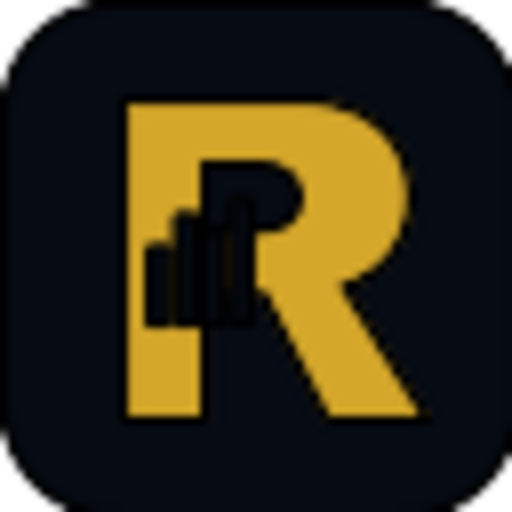
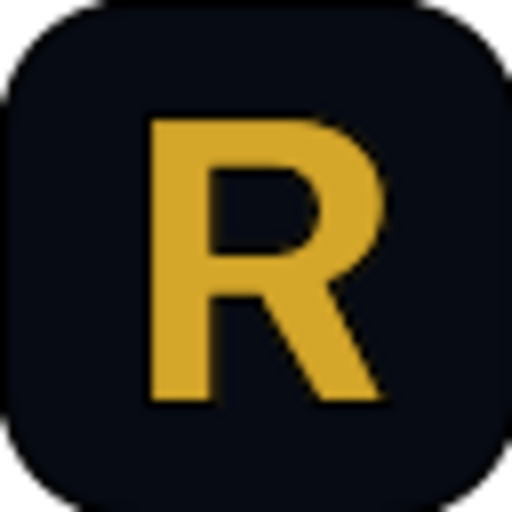
feat: premium isotipo, compact account menu, and ecosystem strip
Replace the agency-style mark with a minimal R that works alone, collapse the signed-in user into an avatar menu, and surface the full Reeskova ecosystem under the hero.

diff --git a/apps/web/src/features/auth/components/header-auth-actions.tsx b/apps/web/src/features/auth/components/header-auth-actions.tsx
@@ -1,7 +1,8 @@
 "use client";
 
+import { useEffect, useRef, useState } from "react";
 import { useTranslations } from "next-intl";
-import { LogOut, User } from "lucide-react";
+import { ChevronDown, LayoutDashboard, LogOut, User } from "lucide-react";
 import { Link } from "@/lib/i18n/routing";
 import { authClient } from "@/lib/auth-client";
 import { cn } from "@/lib/utils";
@@ -11,9 +12,32 @@ type Props = {
   variant?: "desktop" | "mobile";
 };
 
+function shortDisplayName(name: string | null | undefined, fallback: string) {
+  const trimmed = name?.trim();
+  if (!trimmed) return fallback;
+  const parts = trimmed.split(/\s+/).filter(Boolean);
+  if (parts.length === 1) return parts[0]!;
+  const first = parts[0]!;
+  const last = parts[parts.length - 1]!;
+  return `${first.charAt(0).toUpperCase()}. ${last}`;
+}
+
 export function HeaderAuthActions({ className, variant = "desktop" }: Props) {
   const t = useTranslations("nav");
   const { data: session, isPending } = authClient.useSession();
+  const [open, setOpen] = useState(false);
+  const menuRef = useRef<HTMLDivElement>(null);
+
+  useEffect(() => {
+    if (!open) return;
+    function onPointerDown(event: MouseEvent) {
+      if (!menuRef.current?.contains(event.target as Node)) {
+        setOpen(false);
+      }
+    }
+    document.addEventListener("mousedown", onPointerDown);
+    return () => document.removeEventListener("mousedown", onPointerDown);
+  }, [open]);
 
   if (isPending) {
     return (
@@ -24,52 +48,112 @@ export function HeaderAuthActions({ className, variant = "desktop" }: Props) {
           className,
         )}
       >
-        <div className="hidden h-12 w-28 animate-pulse rounded-2xl bg-white/10 sm:block" />
+        <div className="hidden size-10 animate-pulse rounded-full bg-white/10 sm:block" />
       </div>
     );
   }
 
   if (session?.user) {
+    const label = shortDisplayName(session.user.name, t("clientArea"));
+
+    if (variant === "mobile") {
+      return (
+        <div className={cn("flex w-full flex-col gap-2", className)}>
+          <Link
+            href="/dashboard"
+            className="flex h-12 items-center gap-3 rounded-2xl border border-white/10 px-4 text-sm text-[#AEB7C5]"
+          >
+            {session.user.image ? (
+              // eslint-disable-next-line @next/next/no-img-element
+              <img
+                src={session.user.image}
+                alt=""
+                className="size-7 rounded-full object-cover"
+              />
+            ) : (
+              <span className="flex size-7 items-center justify-center rounded-full bg-[#D4A62A]/15 text-[#D4A62A]">
+                <User className="size-3.5" />
+              </span>
+            )}
+            <span className="truncate font-medium text-white">{label}</span>
+          </Link>
+          <button
+            type="button"
+            onClick={() => authClient.signOut()}
+            className="flex h-12 items-center justify-center gap-2 rounded-2xl border border-white/10 px-3 text-sm text-[#AEB7C5]"
+          >
+            <LogOut className="size-4" />
+            {t("signOut")}
+          </button>
+        </div>
+      );
+    }
+
     return (
-      <div
-        className={cn(
-          "flex items-center gap-3",
-          variant === "mobile" && "w-full flex-col",
-          className,
-        )}
-      >
-        <Link
-          href="/dashboard"
-          className={cn(
-            "hidden h-12 max-w-[180px] items-center gap-2 truncate rounded-2xl border border-white/10 px-4 text-sm text-[#AEB7C5] transition-all duration-300 hover:bg-white/5 hover:text-white sm:inline-flex",
-            variant === "mobile" && "flex h-12 w-full max-w-none justify-center",
-          )}
+      <div className={cn("relative hidden sm:block", className)} ref={menuRef}>
+        <button
+          type="button"
+          onClick={() => setOpen((value) => !value)}
+          className="inline-flex h-10 items-center gap-2 rounded-full border border-white/10 py-1 pl-1 pr-2.5 text-sm text-[#AEB7C5] transition-colors hover:border-white/20 hover:text-white"
+          aria-expanded={open}
+          aria-haspopup="menu"
         >
           {session.user.image ? (
             // eslint-disable-next-line @next/next/no-img-element
             <img
               src={session.user.image}
               alt=""
-              className="size-6 rounded-full object-cover"
+              className="size-8 rounded-full object-cover"
             />
           ) : (
-            <User className="size-4 shrink-0" />
+            <span className="flex size-8 items-center justify-center rounded-full bg-[#D4A62A]/15 text-[#D4A62A]">
+              <User className="size-4" />
+            </span>
           )}
-          <span className="truncate">
-            {session.user.name || t("clientArea")}
-          </span>
-        </Link>
-        <button
-          type="button"
-          onClick={() => authClient.signOut()}
-          className={cn(
-            "hidden h-12 items-center justify-center gap-2 rounded-2xl border border-white/10 px-3 text-sm text-[#AEB7C5] transition-all duration-300 hover:bg-white/5 sm:inline-flex",
-            variant === "mobile" && "flex h-12 w-full",
-          )}
-        >
-          <LogOut className="size-4" />
-          {variant === "mobile" && t("signOut")}
+          <ChevronDown
+            className={cn(
+              "size-3.5 opacity-70 transition-transform",
+              open && "rotate-180",
+            )}
+          />
         </button>
+
+        {open ? (
+          <div
+            role="menu"
+            className="absolute right-0 top-full z-50 mt-2 min-w-[200px] rounded-2xl border border-white/10 bg-[#0E1422]/98 p-1.5 shadow-[0_20px_50px_rgba(0,0,0,.45)] backdrop-blur-xl"
+          >
+            <div className="border-b border-white/5 px-3 py-2.5">
+              <p className="truncate text-sm font-medium text-white">{label}</p>
+              {session.user.email ? (
+                <p className="mt-0.5 truncate text-xs text-[#AEB7C5]">
+                  {session.user.email}
+                </p>
+              ) : null}
+            </div>
+            <Link
+              href="/dashboard"
+              role="menuitem"
+              className="mt-1 flex items-center gap-2 rounded-xl px-3 py-2.5 text-sm text-[#AEB7C5] transition-colors hover:bg-white/5 hover:text-white"
+              onClick={() => setOpen(false)}
+            >
+              <LayoutDashboard className="size-4" />
+              {t("clientArea")}
+            </Link>
+            <button
+              type="button"
+              role="menuitem"
+              onClick={() => {
+                setOpen(false);
+                void authClient.signOut();
+              }}
+              className="flex w-full items-center gap-2 rounded-xl px-3 py-2.5 text-sm text-[#AEB7C5] transition-colors hover:bg-white/5 hover:text-white"
+            >
+              <LogOut className="size-4" />
+              {t("signOut")}
+            </button>
+          </div>
+        ) : null}
       </div>
     );
   }
@@ -85,8 +169,8 @@ export function HeaderAuthActions({ className, variant = "desktop" }: Props) {
       <Link
         href="/entrar"
         className={cn(
-          "hidden h-12 items-center justify-center rounded-2xl border border-white/10 px-4 text-sm font-medium text-[#AEB7C5] transition-colors duration-300 hover:border-white/20 hover:text-white sm:inline-flex",
-          variant === "mobile" && "flex h-12 w-full",
+          "hidden h-10 items-center justify-center rounded-full border border-white/10 px-4 text-sm font-medium text-[#AEB7C5] transition-colors duration-300 hover:border-white/20 hover:text-white sm:inline-flex",
+          variant === "mobile" && "flex h-12 w-full rounded-2xl",
         )}
       >
         {t("clientArea")}

diff --git a/apps/web/src/components/home/ecosystem-strip.tsx b/apps/web/src/components/home/ecosystem-strip.tsx
@@ -1,0 +1,74 @@
+"use client";
+
+import { useTranslations } from "next-intl";
+import { motion } from "framer-motion";
+import {
+  Armchair,
+  Car,
+  CreditCard,
+  Home,
+  Package,
+  Shield,
+  Sun,
+} from "lucide-react";
+import { Link } from "@/lib/i18n/routing";
+
+const items = [
+  { key: "properties", icon: Home, href: "/imoveis" },
+  { key: "vehicles", icon: Car, href: "/veiculos" },
+  { key: "financing", icon: CreditCard, href: "/financing" },
+  { key: "insurance", icon: Shield, href: "/services#insurance" },
+  { key: "solar", icon: Sun, href: "/services" },
+  { key: "moving", icon: Package, href: "/services" },
+  { key: "furniture", icon: Armchair, href: "/services" },
+] as const;
+
+export function EcosystemStrip() {
+  const t = useTranslations("landing.ecosystem");
+
+  return (
+    <section className="border-b border-white/[0.04] pb-10 pt-4 lg:pb-14 lg:pt-6">
+      <div className="rk-container">
+        <motion.div
+          initial={{ opacity: 0, y: 12 }}
+          whileInView={{ opacity: 1, y: 0 }}
+          viewport={{ once: true }}
+          transition={{ duration: 0.4 }}
+          className="mb-6 max-w-xl lg:mb-8"
+        >
+          <h2 className="rk-display text-xl font-bold text-white sm:text-2xl">
+            {t("title")}
+          </h2>
+          <p className="mt-2 text-sm text-[#AEB7C5] sm:text-base">{t("subtitle")}</p>
+        </motion.div>
+
+        <div className="grid grid-cols-2 gap-3 sm:grid-cols-3 md:grid-cols-4 lg:grid-cols-7 lg:gap-4">
+          {items.map((item, index) => {
+            const Icon = item.icon;
+            return (
+              <motion.div
+                key={item.key}
+                initial={{ opacity: 0, y: 14 }}
+                whileInView={{ opacity: 1, y: 0 }}
+                viewport={{ once: true }}
+                transition={{ duration: 0.35, delay: index * 0.04 }}
+              >
+                <Link
+                  href={item.href}
+                  className="group flex h-full flex-col items-center gap-3 rounded-2xl border border-white/[0.08] bg-[#111827]/80 px-3 py-5 text-center transition-all duration-300 hover:-translate-y-1 hover:border-[#D4A62A]/50 hover:bg-[#161F31] hover:shadow-[0_18px_40px_rgba(0,0,0,.35)]"
+                >
+                  <span className="flex size-11 items-center justify-center rounded-xl bg-[#D4A62A]/10 text-[#D4A62A] transition-colors group-hover:bg-[#D4A62A]/18">
+                    <Icon className="size-5" strokeWidth={1.75} />
+                  </span>
+                  <span className="text-[13px] font-medium leading-snug text-white">
+                    {t(`items.${item.key}`)}
+                  </span>
+                </Link>
+              </motion.div>
+            );
+          })}
+        </div>
+      </div>
+    </section>
+  );
+}

diff --git a/apps/web/src/components/layout/logo.tsx b/apps/web/src/components/layout/logo.tsx
@@ -1,35 +1,22 @@
 import { Link } from "@/lib/i18n/routing";
 import { cn } from "@/lib/utils";
 
-/** Brand monogram: geometric R with skyline bars. */
-function ReeskovaMark({ className }: { className?: string }) {
+/**
+ * Minimal geometric R isotipo — works alone as favicon/app icon.
+ * Clean letterform, no skyline / agency-cliché details.
+ */
+export function ReeskovaMark({ className }: { className?: string }) {
   return (
     <svg
-      viewBox="0 0 64 64"
+      viewBox="0 0 40 40"
       fill="none"
       xmlns="http://www.w3.org/2000/svg"
       aria-hidden
       className={cn("shrink-0", className)}
     >
-      <g fill="#D4A62A">
-        <rect x="12" y="32" width="3.6" height="20" rx="0.8" />
-        <rect x="17" y="23" width="3.6" height="29" rx="0.8" />
-        <rect x="22" y="28" width="3.6" height="24" rx="0.8" />
-        <rect x="27" y="18" width="3.6" height="34" rx="0.8" />
-      </g>
       <path
-        stroke="#D4A62A"
-        strokeWidth="3.8"
-        strokeLinecap="round"
-        strokeLinejoin="round"
-        d="M30.8 18H40c7 0 11.6 4 11.6 10.2S47 38.4 40 38.4H30.8"
-      />
-      <path
-        stroke="#D4A62A"
-        strokeWidth="3.8"
-        strokeLinecap="round"
-        strokeLinejoin="round"
-        d="M39 38.4L51.5 54"
+        fill="#D4A62A"
+        d="M10 6h12.4c5.7 0 9.6 3.4 9.6 8.5 0 3.7-2 6.5-5.3 7.7L33.2 34h-6.8l-5.8-10.2H16.4V34H10V6Zm6.4 5.2v7.8h5.6c2.5 0 4-1.3 4-3.9s-1.5-3.9-4-3.9h-5.6Z"
       />
     </svg>
   );
@@ -37,23 +24,33 @@ function ReeskovaMark({ className }: { className?: string }) {
 
 type LogoProps = {
   className?: string;
-  /** Footer only — never in the header */
+  /** Footer only */
   showPoweredBy?: boolean;
+  /** Header: compact mark + wordmark. Footer can show tagline. */
+  showTagline?: boolean;
 };
 
-export function Logo({ className, showPoweredBy = false }: LogoProps) {
+export function Logo({
+  className,
+  showPoweredBy = false,
+  showTagline = false,
+}: LogoProps) {
   return (
-    <Link href="/" className={cn("flex items-center gap-3.5", className)}>
-      <ReeskovaMark className="size-12" />
+    <Link href="/" className={cn("flex items-center gap-3", className)}>
+      <span className="flex size-10 items-center justify-center rounded-[12px] bg-[#D4A62A]/10 ring-1 ring-[#D4A62A]/25">
+        <ReeskovaMark className="size-6" />
+      </span>
       <div className="flex flex-col leading-none">
-        <span className="text-[20px] font-bold tracking-[0.08em] text-white uppercase">
+        <span className="text-[18px] font-bold tracking-[0.1em] text-white uppercase">
           REESKOVA
         </span>
-        <span className="mt-1.5 text-[10px] font-medium tracking-[0.14em] text-[#D4A62A] uppercase">
-          Real Estate Marketplace
-        </span>
+        {showTagline || showPoweredBy ? (
+          <span className="mt-1.5 text-[9px] font-medium tracking-[0.16em] text-[#D4A62A] uppercase">
+            Marketplace
+          </span>
+        ) : null}
         {showPoweredBy ? (
-          <span className="mt-2.5 flex items-center gap-2 text-[9px] text-[#AEB7C5]">
+          <span className="mt-2 flex items-center gap-2 text-[9px] text-[#AEB7C5]">
             <span className="h-px w-4 bg-[#D4A62A]/50" aria-hidden />
             Powered by <span className="text-[#D4A62A]">RSC Group</span>
             <span className="h-px w-4 bg-[#D4A62A]/50" aria-hidden />

diff --git a/apps/web/src/app/[locale]/(public)/page.tsx b/apps/web/src/app/[locale]/(public)/page.tsx
@@ -1,5 +1,6 @@
 import { setRequestLocale } from "next-intl/server";
 import { HeroSection } from "@/components/home/hero-section";
+import { EcosystemStrip } from "@/components/home/ecosystem-strip";
 import { StatsBar } from "@/components/home/stats-bar";
 import { FeaturedProperties } from "@/components/home/featured-properties";
 import { ServiceCards } from "@/components/home/service-cards";
@@ -48,6 +49,7 @@ export default async function HomePage({ params }: Props) {
   return (
     <>
       <HeroSection />
+      <EcosystemStrip />
       <StatsBar />
       <FeaturedProperties items={featured} />
       <ServiceCards />

diff --git a/apps/web/src/components/layout/footer.tsx b/apps/web/src/components/layout/footer.tsx
@@ -97,7 +97,7 @@ export function Footer() {
       <div className="rk-container py-14">
         <div className="grid gap-10 lg:grid-cols-[1.1fr_2.4fr]">
           <div>
-            <Logo showPoweredBy />
+            <Logo showPoweredBy showTagline />
             <p className="mt-5 max-w-sm text-sm leading-relaxed text-[#8C97A8]">
               {t("tagline")}
             </p>

diff --git a/apps/web/src/components/home/index.ts b/apps/web/src/components/home/index.ts
@@ -1,5 +1,6 @@
 export { HeroSection } from "./hero-section";
 export { HeroSearchBar } from "./hero-search-bar";
+export { EcosystemStrip } from "./ecosystem-strip";
 export { StatsBar } from "./stats-bar";
 export { FeaturedProperties } from "./featured-properties";
 export { ServiceCards } from "./service-cards";